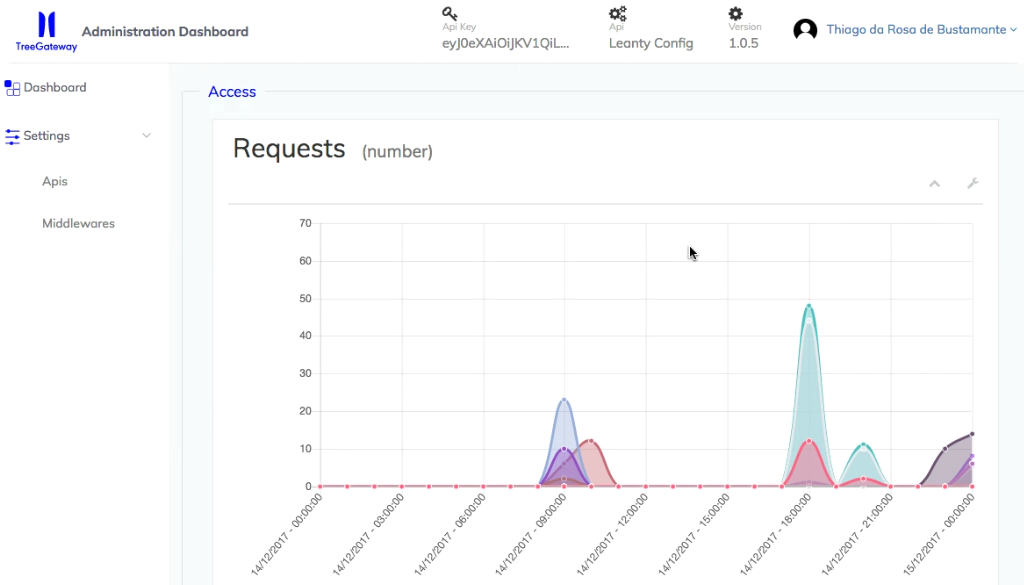
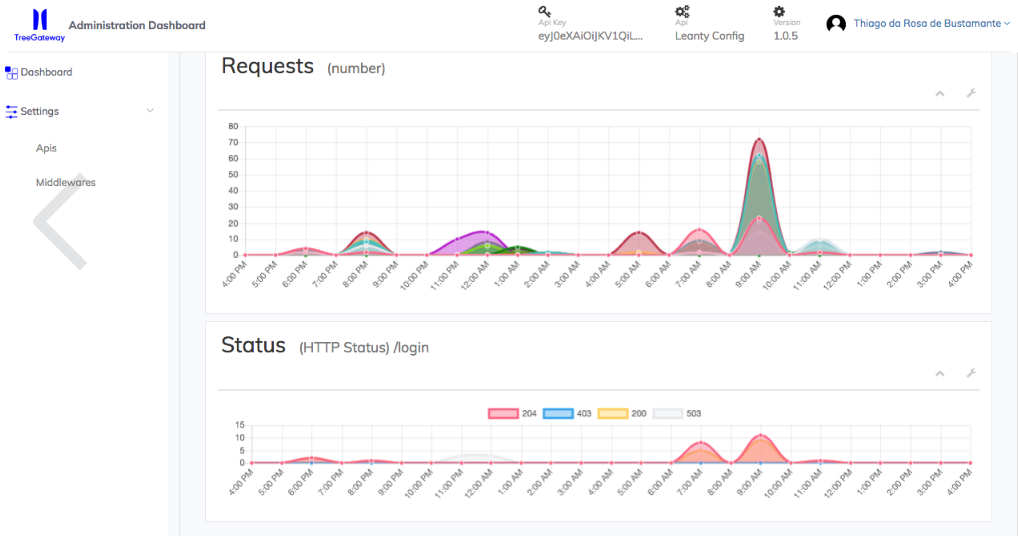
Adding dashboard section

diff --git a/index.html b/index.html
@@ -68,9 +68,9 @@
                     <li class="page-scroll">
                         <a href="#portfolio">Features</a>
                     </li>
-                    <!-- <li class="page-scroll">
+                    <li class="page-scroll">
                         <a href="#dashboard">Dashboard</a>
-                    </li> -->
+                    </li>
                     <li class="page-scroll">
                         <a href="#contact">Contact</a>
                     </li>
@@ -281,29 +281,40 @@
         </div>
     </section>
 
+    <style>
+    @media (min-width: 768px) {
+        .dashboardimg {
+            width: 300px !important;
+        }
+    }
+    #dashboard {
+        background: blue !important;
+    }
+    .dashboardtext {
+        color: white !important;
+    }
+    .dashboardimg {
+        width: 500px !important;
+    }
+    </style>
     <!-- Dashboard Section -->
-    <!--
     <section id="dashboard">
         <div class="container">
             <div class="row">
                 <div class="col-lg-12 text-center" id="main-dashboard-text">
-                    <h1>Meet the Dashboard</h1>
+                    <h1 class="dashboardtext">Meet the Dashboard</h1>
                     <br/>
                     <center>
-                        <a href="http://dashboard.leanty.com/"><img src="img/dashboard.png" style="
-                            width: 800px !important;
-                            box-shadow: 0 10px 16px 0 rgba(0,0,0,0.2),0 6px 20px 0 rgba(0,0,0,0.19) !important;
-                          " alt="Dashboard"></img></a>
+                        <a href="http://dashboard.leanty.com/"><img class="dashboardimg" src="img/newdashboard.png" alt="Dashboard"></img></a>
                     </center>
                     <br/>
                     <br/>
-                    <h3> The space to easily manage and monitor your APIs </h3>
-                    <h3> Built exclusively for you </h3>
+                    <h3 class="dashboardtext"> The space to easily manage and monitor your APIs </h3>
+                    <h3 class="dashboardtext"> Built exclusively for you </h3>
                 </div>
             </div>
         </div>
     </section>
-    -->
 
     <!-- Contact Section -->
     <section class="success" id="contact">
